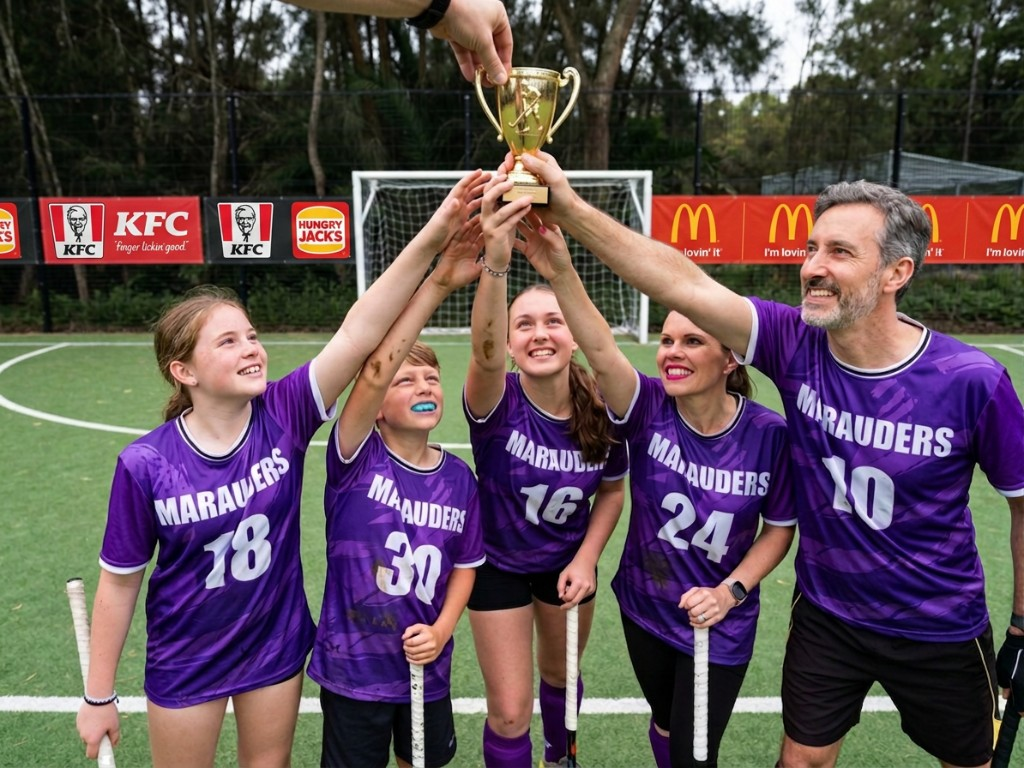
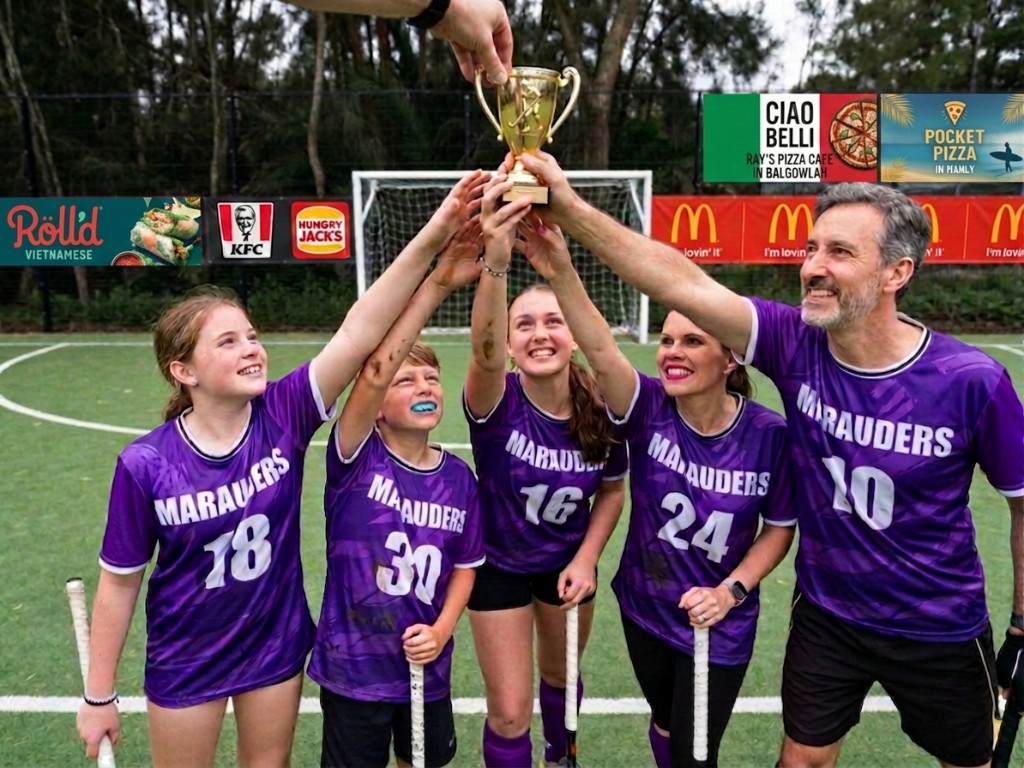
Widen the takeaway crown and put the new Marauders photo on the cup.
Winner now chooses KFC, Maccas, Hungry Jack's, Ciao Belli in Balgowlah, or Pocket Pizza in Manly.

diff --git a/src/App.tsx b/src/App.tsx
@@ -3,7 +3,7 @@ import maraudersCup from "./assets/marauders-cup.png";
 import { tournamentFacts, watchTips } from "./data/facts";
 import { matches, venues } from "./data/matches";
 import { members } from "./data/members";
-import { takeaways } from "./data/prize";
+import { takeawayLine, takeaways } from "./data/prize";
 import { teamById, teams } from "./data/teams";
 import type { FamilyMember, Match, MatchScore, MemberId } from "./data/types";
 import {
@@ -142,8 +142,8 @@ export function App() {
             <p className="eyebrow">Family Cup · Belgium & Netherlands</p>
             <h1>FIH World Cup 2026</h1>
             <p className="lede">
-              Five houses. One little gold cup. The winner chooses Hungry Jack's, McDonald's or KFC
-              for the family takeaway — and everyone else gets in the car.
+              Five houses. One little gold cup. The winner chooses {takeawayLine}
+              for the family — and everyone else gets in the car.
             </p>
           </div>
         </div>
@@ -274,8 +274,8 @@ function SpoilsCard({ leaderName }: { leaderName?: string }) {
       <p className="eyebrow">The spoils</p>
       <h3>The cup, then the car park</h3>
       <p className="lede">
-        First on the ladder lifts the little gold trophy and chooses Hungry Jack's, McDonald's or KFC
-        for the family takeaway. Everyone else gets in the car. Nobody vetoes the fries.
+        First on the ladder lifts the little gold trophy and chooses {takeawayLine}
+        for the family. Everyone else gets in the car. Nobody vetoes the order.
       </p>
       <TakeawayRow />
       {leaderName && (
@@ -325,7 +325,7 @@ function Today({
           </h2>
           <p className="lede">
             {you.name}, you own {you.teamIds.length} sides. The house on top when the World Cup ends
-            lifts the little gold trophy and chooses Hungry Jack's, Maccas or KFC for everyone.
+            lifts the little gold trophy and chooses {takeawayLine} for everyone.
             Family clashes pay extra. Official scores lock at half-time and full-time.
           </p>
           <TakeawayRow />
@@ -628,7 +628,7 @@ function Ladder({ board }: { board: ReturnType<typeof scoreboard> }) {
           <h2>The family ladder</h2>
           <p className="lede">
             Half-time scores count as they land; full-time replaces them. Tips wait for the final whistle.
-            First house lifts the little gold cup and chooses Hungry Jack's, McDonald's or KFC.
+            First house lifts the little gold cup and chooses {takeawayLine}.
             {board.some((row) => row.provisional) ? " Some points are still provisional until full-time." : ""}
           </p>
         </div>
@@ -750,7 +750,7 @@ function Facts() {
         </div>
       </div>
       <div className="card fact" style={{ marginBottom: 12 }}>
-        The prize is not a Pro League contract. The winner lifts the little gold cup the Marauders last reached for on turf, then picks Hungry Jack's, McDonald's or KFC. The rest of the family eats whatever comes out of the bag.
+        The prize is not a Pro League contract. The winner lifts the little gold cup the Marauders last reached for on turf, then picks {takeawayLine}. The rest of the family eats whatever comes out of the bag.
       </div>
       <div className="stack">
         {tournamentFacts.map((fact) => <div className="card fact" key={fact}>{fact}</div>)}
@@ -783,9 +783,8 @@ function Rules({ cloud }: { cloud: CloudStatus }) {
         <h2>One cup. One takeaway.</h2>
         <p className="lede">
           The winner of the Family Cup lifts the little gold trophy — the same cup this lot last
-          reached for in Marauders purple — and chooses the family takeaway. Hungry Jack's,
-          McDonald's or KFC. No split orders. No “can we just get a salad.” The winner's word is
-          the menu.
+          reached for in Marauders purple — and chooses the family feed. {takeawayLine}. No split
+          orders. No “can we just get a salad.” The winner's word is the menu.
         </p>
         <div className="stack" style={{ marginTop: 14 }}>
           {takeaways.map((shop) => (
@@ -808,7 +807,7 @@ function Rules({ cloud }: { cloud: CloudStatus }) {
           <li>Semi-final appearance +8 · final +12 · champion +20 · bronze +6</li>
           <li>Everyone tips: exact score +3 · correct result +1 — lock before kick-off, scored at full-time</li>
           <li>Official FIH scores write themselves at half-time and full-time, and the ladder updates at the same moment</li>
-          <li>The house on top at the end lifts the cup and picks Hungry Jack's, Maccas or KFC</li>
+          <li>The house on top at the end lifts the cup and picks {takeawayLine}</li>
         </ul>
         <p className="italic">Andrew and Hugo have seven teams because 32 does not divide by five. Their extras are the leftover lower-ranked sides, so the quality split stays honest.</p>
       </div>

diff --git a/src/data/prize.ts b/src/data/prize.ts
@@ -1,9 +1,9 @@
 export const takeaways = [
   {
-    id: "hungry-jacks",
-    name: "Hungry Jack's",
-    tag: "Flame-grilled",
-    line: "Whoppers, no pickle diplomacy until the bag is empty.",
+    id: "kfc",
+    name: "KFC",
+    tag: "Finger lickin' good",
+    line: "The colonel does not take notes from second place.",
   },
   {
     id: "maccas",
@@ -12,9 +12,24 @@ export const takeaways = [
     line: "Nuggets are a valid dynasty. The winner's order stands.",
   },
   {
-    id: "kfc",
-    name: "KFC",
-    tag: "Finger lickin' good",
-    line: "The colonel does not take notes from second place.",
+    id: "hungry-jacks",
+    name: "Hungry Jack's",
+    tag: "Flame-grilled",
+    line: "Whoppers, no pickle diplomacy until the bag is empty.",
+  },
+  {
+    id: "ciao-belli",
+    name: "Ciao Belli",
+    tag: "Ray's Pizza Cafe · Balgowlah",
+    line: "Proper pizza. The winner picks the pies; the rest of you pass the chilli oil.",
+  },
+  {
+    id: "pocket-pizza",
+    name: "Pocket Pizza",
+    tag: "Manly",
+    line: "Surf-club energy in a box. If the winner says Manly, you are going to Manly.",
   },
 ] as const;
+
+export const takeawayLine =
+  "KFC, McDonald's, Hungry Jack's, Ciao Belli in Balgowlah, or Pocket Pizza in Manly";

diff --git a/src/data/facts.ts b/src/data/facts.ts
@@ -17,7 +17,7 @@ export const tournamentFacts = [
   "Belgium men sit world No. 1 after winning the Pro League by a distance. They host France on opening night in Wavre.",
   "A field hockey match is four 15-minute quarters. Wins are worth three points, draws one — same as football, faster than football.",
   "The women's final is 29 August in Amstelveen. The men's final is 30 August in Wavre.",
-  "The Family Cup prize is a little gold trophy and the right to pick Hungry Jack's, McDonald's or KFC for the family. The rest of you eat whatever comes out of the bag.",
+  "The Family Cup prize is a little gold trophy and the right to pick KFC, McDonald's, Hungry Jack's, Ciao Belli in Balgowlah, or Pocket Pizza in Manly. The rest of you eat whatever comes out of the bag.",
   "Second round is locked: women's Pool E is Netherlands, Australia, China and India. Pool F is Argentina, Germany, Belgium and Spain. Top two from each go to the semis.",
 ];
 

diff --git a/src/styles.css b/src/styles.css
@@ -251,6 +251,14 @@ h3 { font-size: 26px; }
   border-color: rgba(214, 40, 40, 0.5);
   background: rgba(214, 40, 40, 0.16);
 }
+.takeaway-chip.ciao-belli {
+  border-color: rgba(0, 140, 69, 0.5);
+  background: rgba(0, 140, 69, 0.16);
+}
+.takeaway-chip.pocket-pizza {
+  border-color: rgba(232, 145, 58, 0.55);
+  background: rgba(232, 145, 58, 0.16);
+}
 
 .spoils { padding: 16px 18px; }
 .spoils .lede { max-width: none; }
